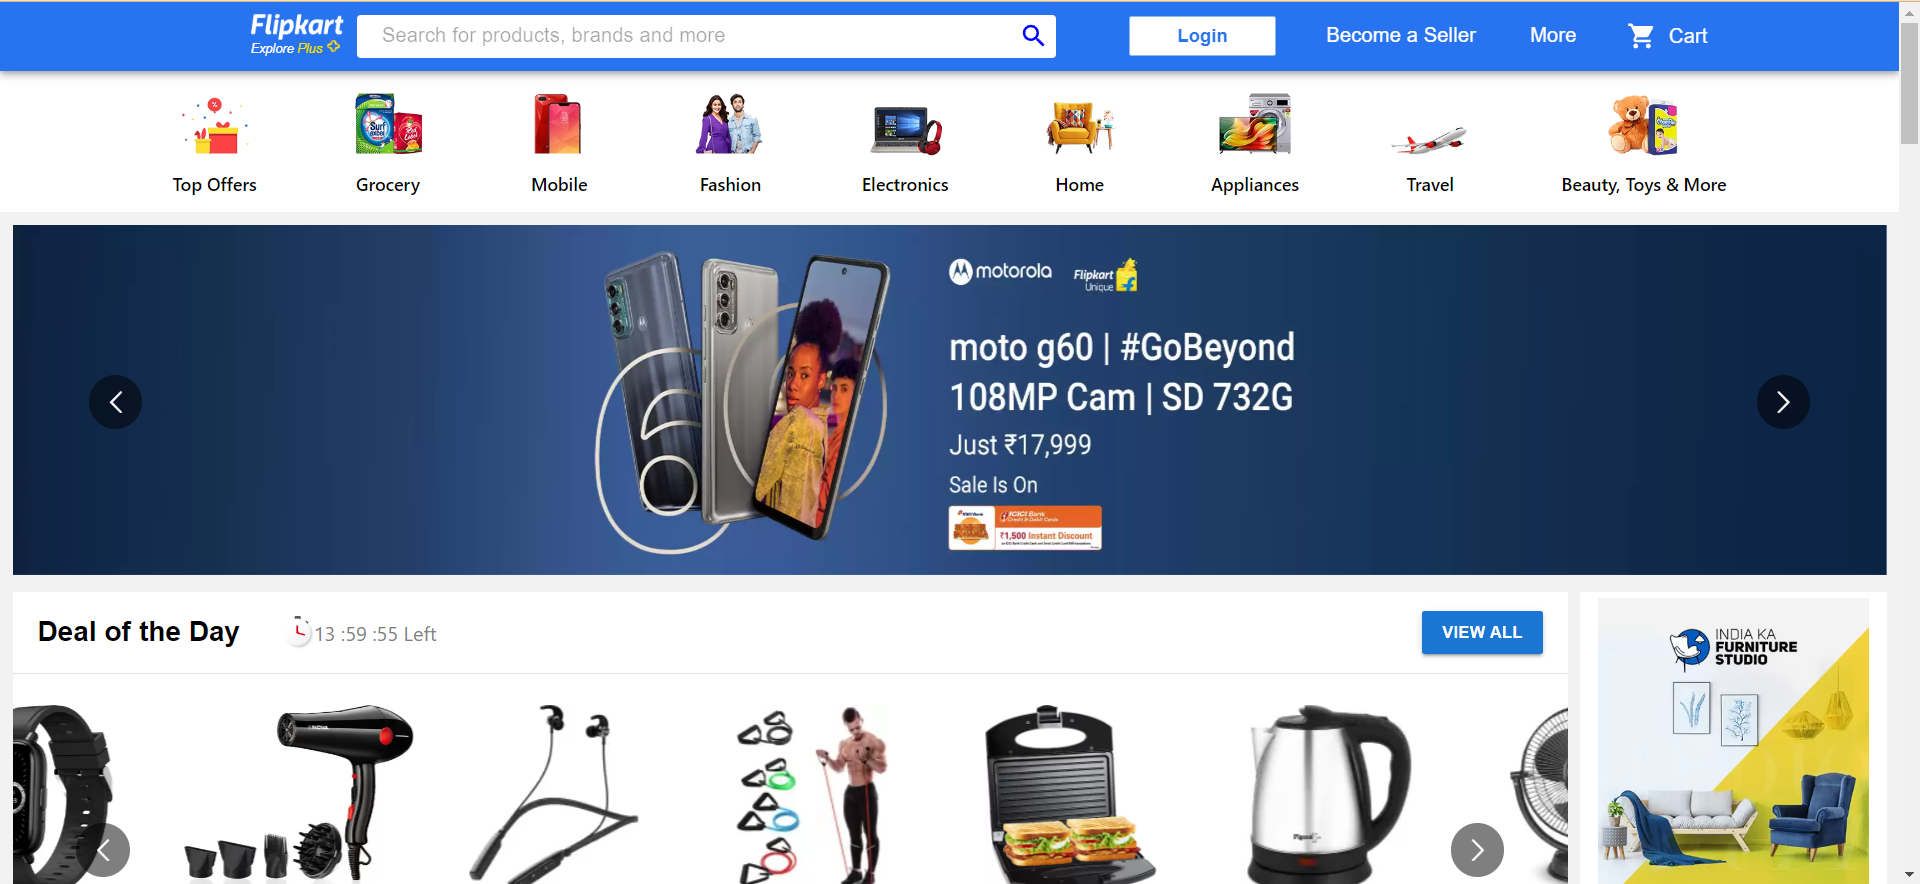
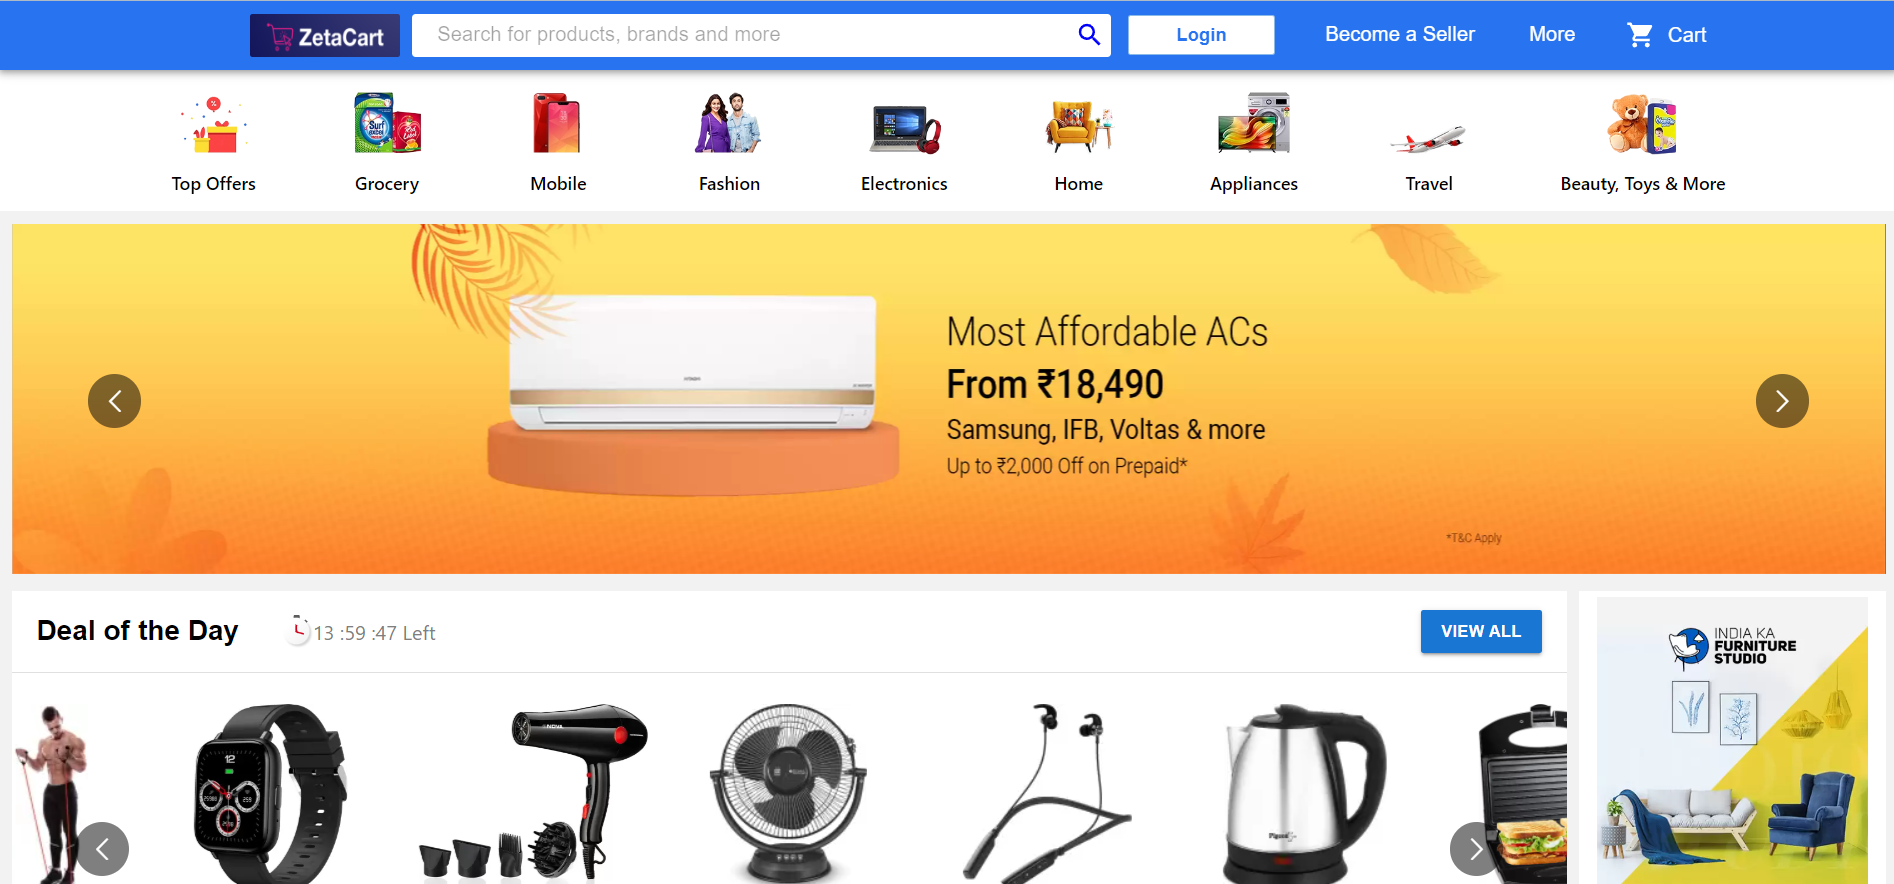
update

diff --git a/Portfolio/src/components/Projects/Projects.js b/Portfolio/src/components/Projects/Projects.js
@@ -5,6 +5,7 @@ import ProjectCard from "./ProjectCards";
 import medhos from "../../Assets/Projects/medhos.png";
 import stack from "../../Assets/Projects/stackflow.png";
 import e_commerce from "../../Assets/Projects/e-commerce.png";
+import febshine from "../../Assets/Projects/febshine.png"
 
 import Particle from "../Particle";
 import leaf from "../../Assets/Projects/leaf.png";
@@ -41,10 +42,10 @@ function Projects() {
             <ProjectCard
               imgPath={stack}
               isBlog={false}
-              title="Stack OverFlow 2.O "
+              title="Otiva EduCart"
               description="It is a platform to ask questions related to programming and other technical stuffs concerned with IT. User's can subscribe to various plans paying bills accordingly and ask their doubts."
-              ghLink="https://github.com/KaustubhPathak-tech/Stack-over-flow-frontend"
-              demoLink="https://stack-over-flow-clone-2023.vercel.app/"
+              ghLink="https://github.com/KaustubhPathak-tech/Otiva-Educart-Front-End"
+              demoLink="https://otivaeducart.vercel.app/"
             />
           </Col>
 
@@ -52,12 +53,26 @@ function Projects() {
             <ProjectCard
               imgPath={e_commerce}
               isBlog={false}
-              title="E-commerce"
+              title="ZetaCart"
               description="It is MERN stack implementation of e-commerce platform to expand B2C Business of people."
-              ghLink="https://github.com/KaustubhPathak-tech/E-commerce"
-              demoLink="https://otivaindustries.net/"
+              ghLink="https://github.com/KaustubhPathak-tech/ZetaCart"
+              demoLink="https://zetacart.vercel.app/"
             />
           </Col>
+        </Row>
+        <Row style={{ justifyContent: "center", paddingBottom: "10px" }}>
+          <Col md={4} className="project-card">
+            <ProjectCard
+              imgPath={febshine}
+              isBlog={false}
+              title="Feb & Shine"
+              description="It's the official website of Feb & Shine , Vasai, India. The comapany manufactures and supplies various types of pharmaceutical products."
+              ghLink="https://github.com/KaustubhPathak-tech/Feb-and-Shine"
+              demoLink="https://febandshine.vercel.app/"
+            />
+          </Col>
+
+          
         </Row>
       </Container>
     </Container>
